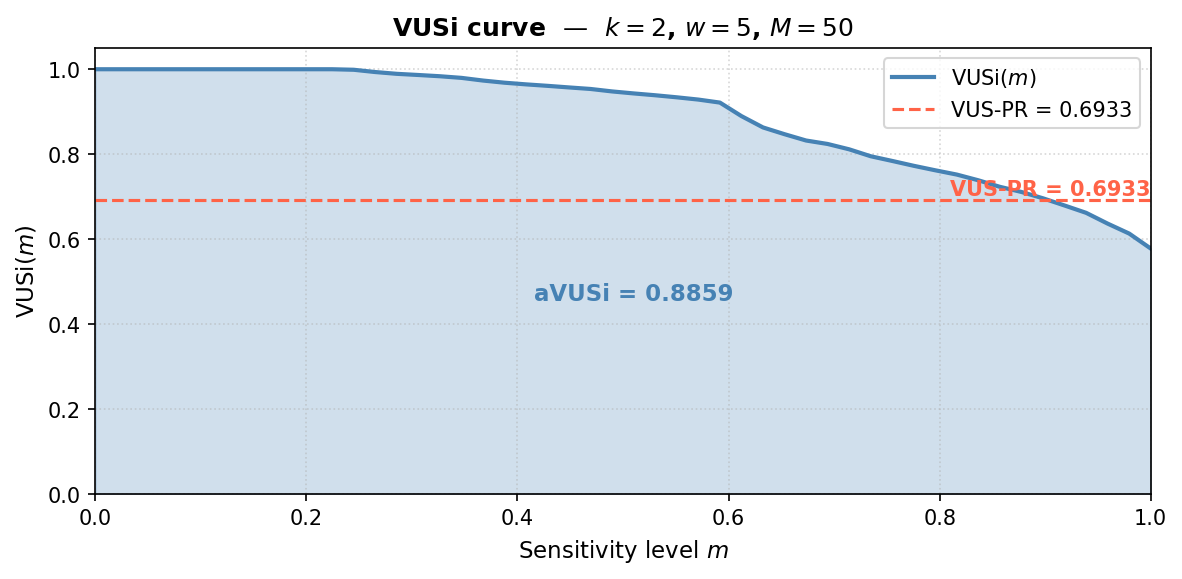
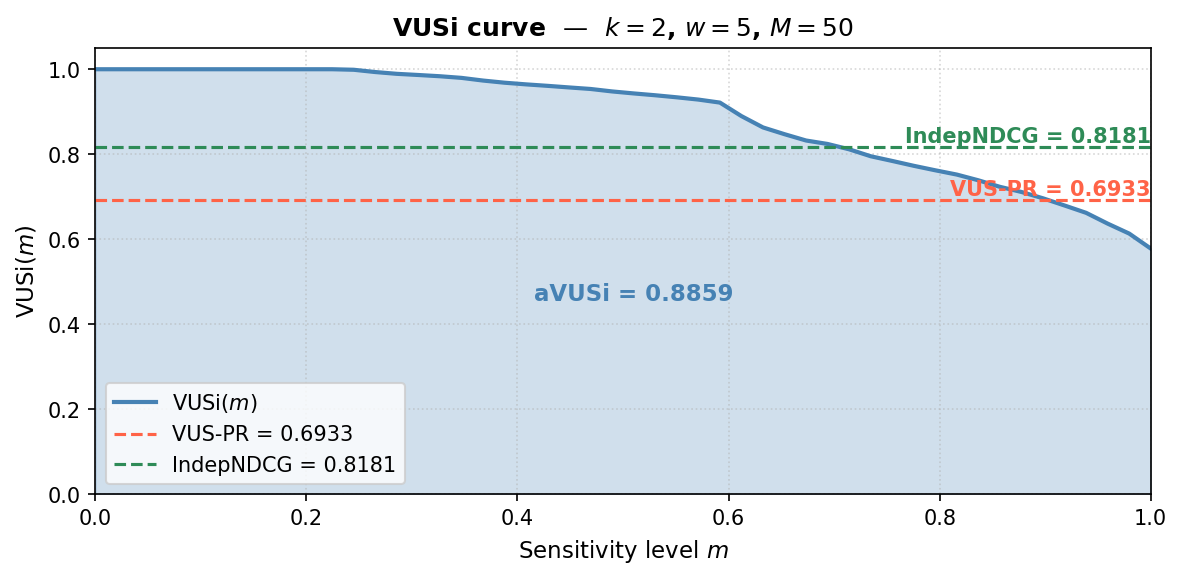
add IndepNDCG as a horizontal line when plotting

Changed region(s): [[0.0914, 0.0933, 0.9746, 0.2798], [0.0914, 0.6528, 0.3655, 0.8394]]

diff --git a/main.py b/main.py
@@ -174,17 +174,18 @@ def plot_demo_data(data: dict, out_dir=None) -> None:
     plt.show()
 
 
-def plot_vusi_curve(avusi_results: dict, k: int, w: int, M: int, vus_pr: float, out_dir=None) -> None:
+def plot_vusi_curve(avusi_results: dict, k: int, w: int, M: int, vus_pr: float, indep_ndcg: float, out_dir=None) -> None:
     """
     Plot the VUSi(m) curve, shade the area under it (= aVUSi), and draw VUS-PR
-    as a horizontal reference line.
+    and IndepNDCG as horizontal reference lines.
 
     Args:
         avusi_results: dict returned by AVUSI.score_for_different_k().
         k: NDCG cutoff used when computing the results.
         w: smoothing window used when computing the results.
         M: number of sensitivity levels used when computing the results.
-        vus_pr: VUS-PR accuracy score to display as a horizontal reference line.
+        vus_pr: VUS-PR score — plotted as a horizontal reference line.
+        indep_ndcg: IndepNDCG score — plotted as a horizontal reference line.
     """
     m_levels = np.asarray(avusi_results[f"n_interpretability_sensitivity_levels_{M}_M_list"])
     vusi_values = np.asarray(avusi_results[(k, w, M)]["vus_pr_list"])
@@ -205,13 +206,22 @@ def plot_vusi_curve(avusi_results: dict, k: int, w: int, M: int, vus_pr: float, 
         fontsize=11, color="steelblue", fontweight="bold",
     )
 
-    # VUS-PR as a horizontal reference line with inline label above the line
+    # VUS-PR horizontal reference line with inline label above
     ax.axhline(vus_pr, color="tomato", linewidth=1.5, linestyle="--",
                label=f"VUS-PR = {vus_pr:.4f}")
     ax.text(
         m_levels[-1], vus_pr, f"VUS-PR = {vus_pr:.4f}",
         ha="right", va="bottom",
         fontsize=10, color="tomato", fontweight="bold",
+    )
+
+    # IndepNDCG horizontal reference line with inline label above
+    ax.axhline(indep_ndcg, color="seagreen", linewidth=1.5, linestyle="--",
+               label=f"IndepNDCG = {indep_ndcg:.4f}")
+    ax.text(
+        m_levels[-1], indep_ndcg, f"IndepNDCG = {indep_ndcg:.4f}",
+        ha="right", va="bottom",
+        fontsize=10, color="seagreen", fontweight="bold",
     )
 
     ax.set_xlabel(r"Sensitivity level $m$", fontsize=11)
@@ -319,4 +329,5 @@ if __name__ == '__main__':
                     w=default_smoothing_window_w,
                     M=default_sensitivity_levels_m,
                     vus_pr=vus_pr_result["value"],
+                    indep_ndcg=indep_ndcg_value,
                     out_dir=out_dir)

diff --git a/README.md b/README.md
@@ -390,6 +390,7 @@ plot_vusi_curve(
     w=w,
     M=M,
     vus_pr=vus_pr_result["value"],
+    indep_ndcg=indep_ndcg_results[(k, w)]["value"],
     out_dir="figures/usage_in_readme",
 )
 ```
@@ -397,7 +398,8 @@ plot_vusi_curve(
 The plot shows:
 - **VUSi(m) curve** — the penalized VUS-PR score at each sensitivity level m.
 - **Shaded area** — the area under the VUSi curve, equal to aVUSi, annotated with its value.
-- **VUS-PR line** — a dashed horizontal reference line with an inline label above it.
+- **VUS-PR line** — a dashed red horizontal reference line with an inline label above it.
+- **IndepNDCG line** — a dashed green horizontal reference line with an inline label above it.
 
 </td><td>
 